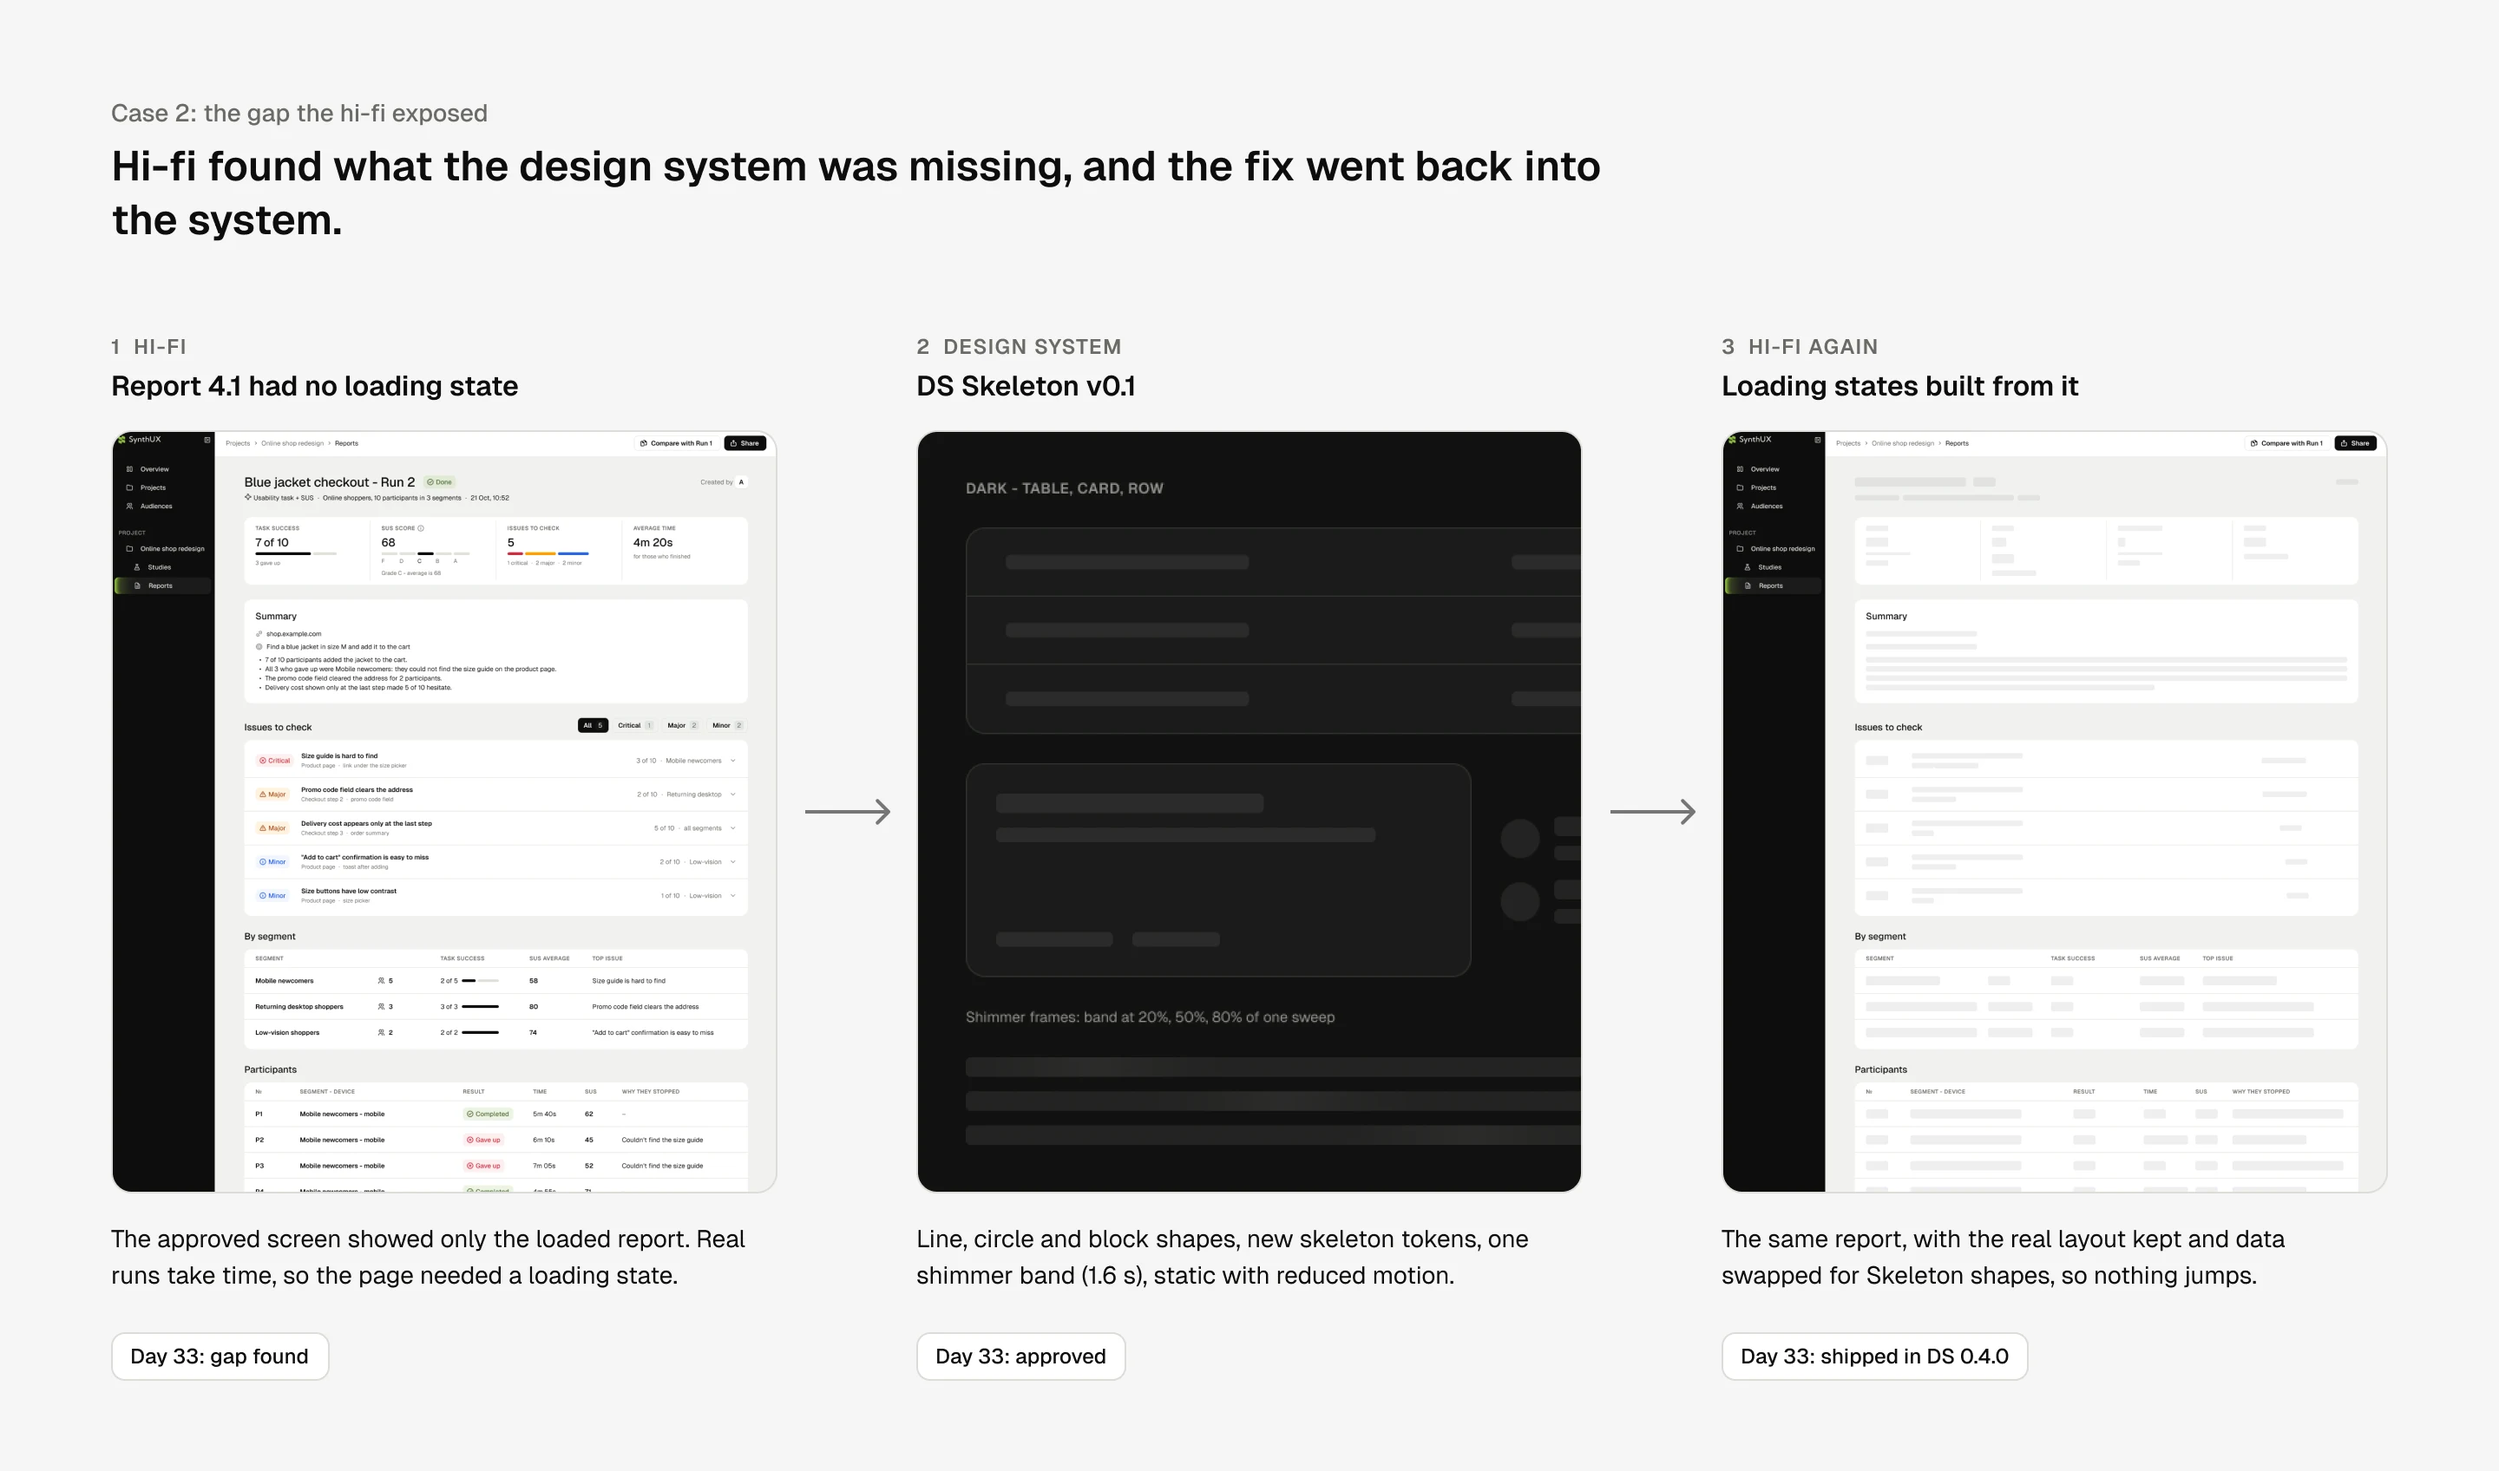
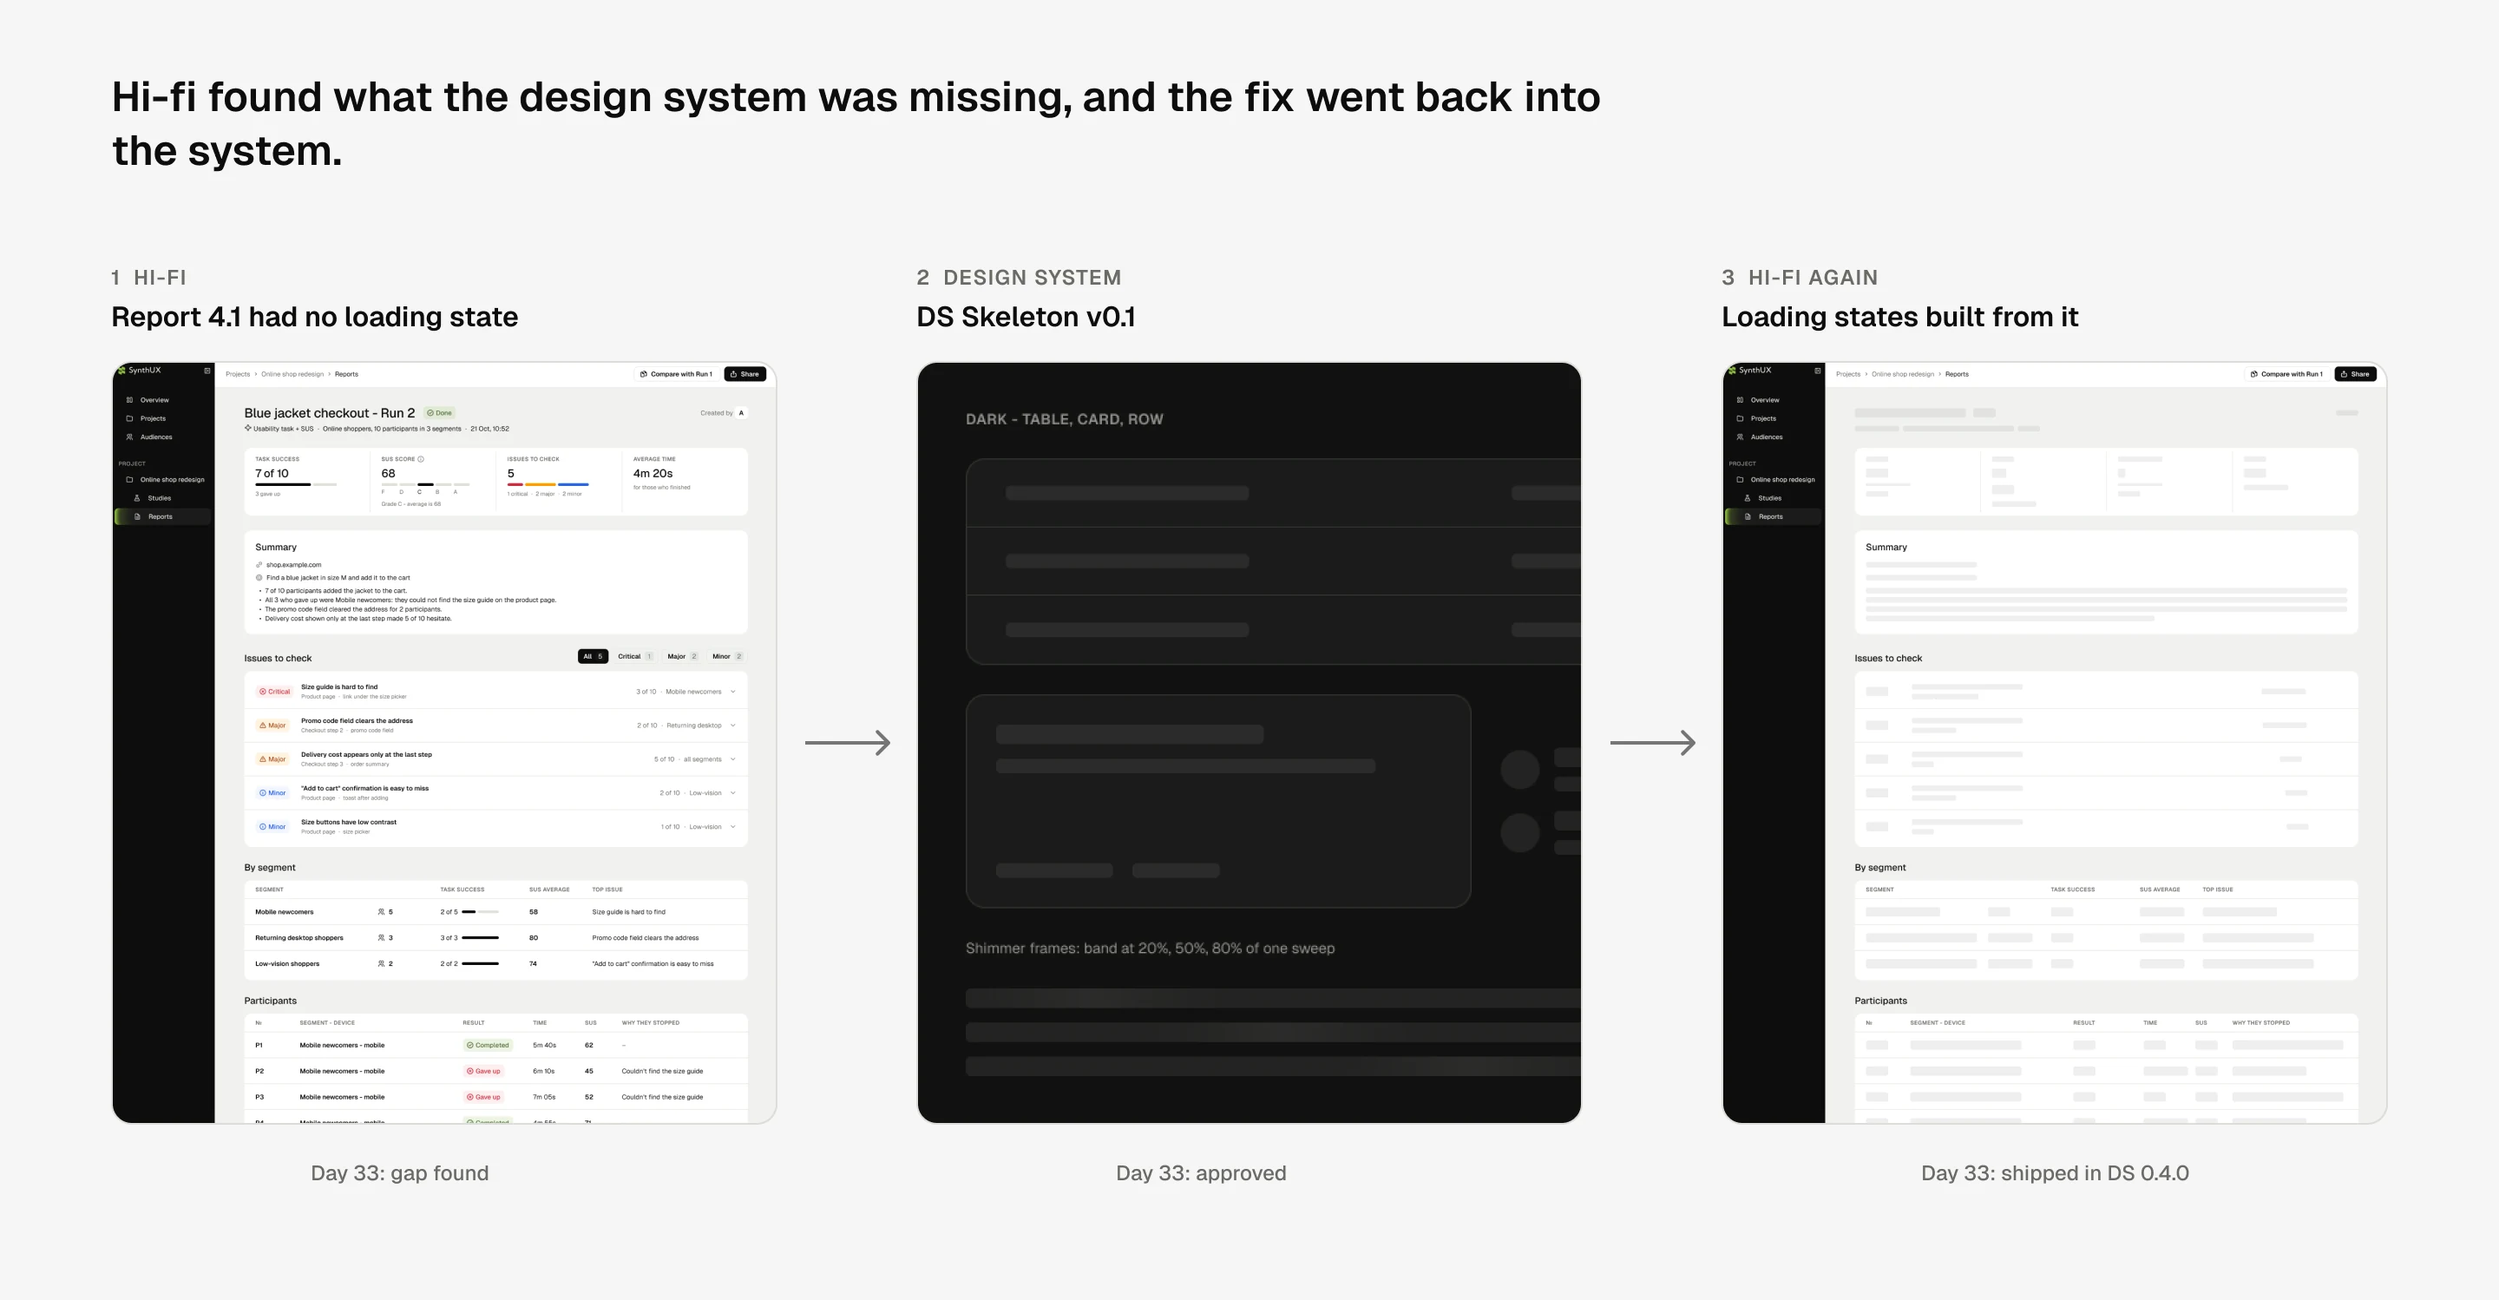
Case 2: new hi-fi gap picture after Context (Figma 64:15001)
Claude-Session: https://claude.ai/code/session_01FZMfuejszBbpR7QNto1b2B

diff --git a/app/src/pages/synthux/SynthuxDesignSystemPage.tsx b/app/src/pages/synthux/SynthuxDesignSystemPage.tsx
@@ -129,9 +129,9 @@ export const SynthuxDesignSystemPage = () => (
     <CaseSection label="Problem">
       <CaseFigure
         src={gapImg}
-        alt="Three steps: Report 4.1 had no loading state, the DS Skeleton v0.1 was built for it, and the report's loading state was then built from the Skeleton"
+        alt="Hi-fi found what the design system was missing, and the fix went back into the system. 1, hi-fi: Report 4.1 had no loading state (Day 33, gap found). 2, design system: DS Skeleton v0.1 (Day 33, approved). 3, hi-fi again: loading states built from it (Day 33, shipped in DS 0.4.0)"
         width={2880}
-        height={1696}
+        height={1498}
         caption="Day 33: the hi-fi found a missing loading state, and the fix went into the system first."
       />
     </CaseSection>
